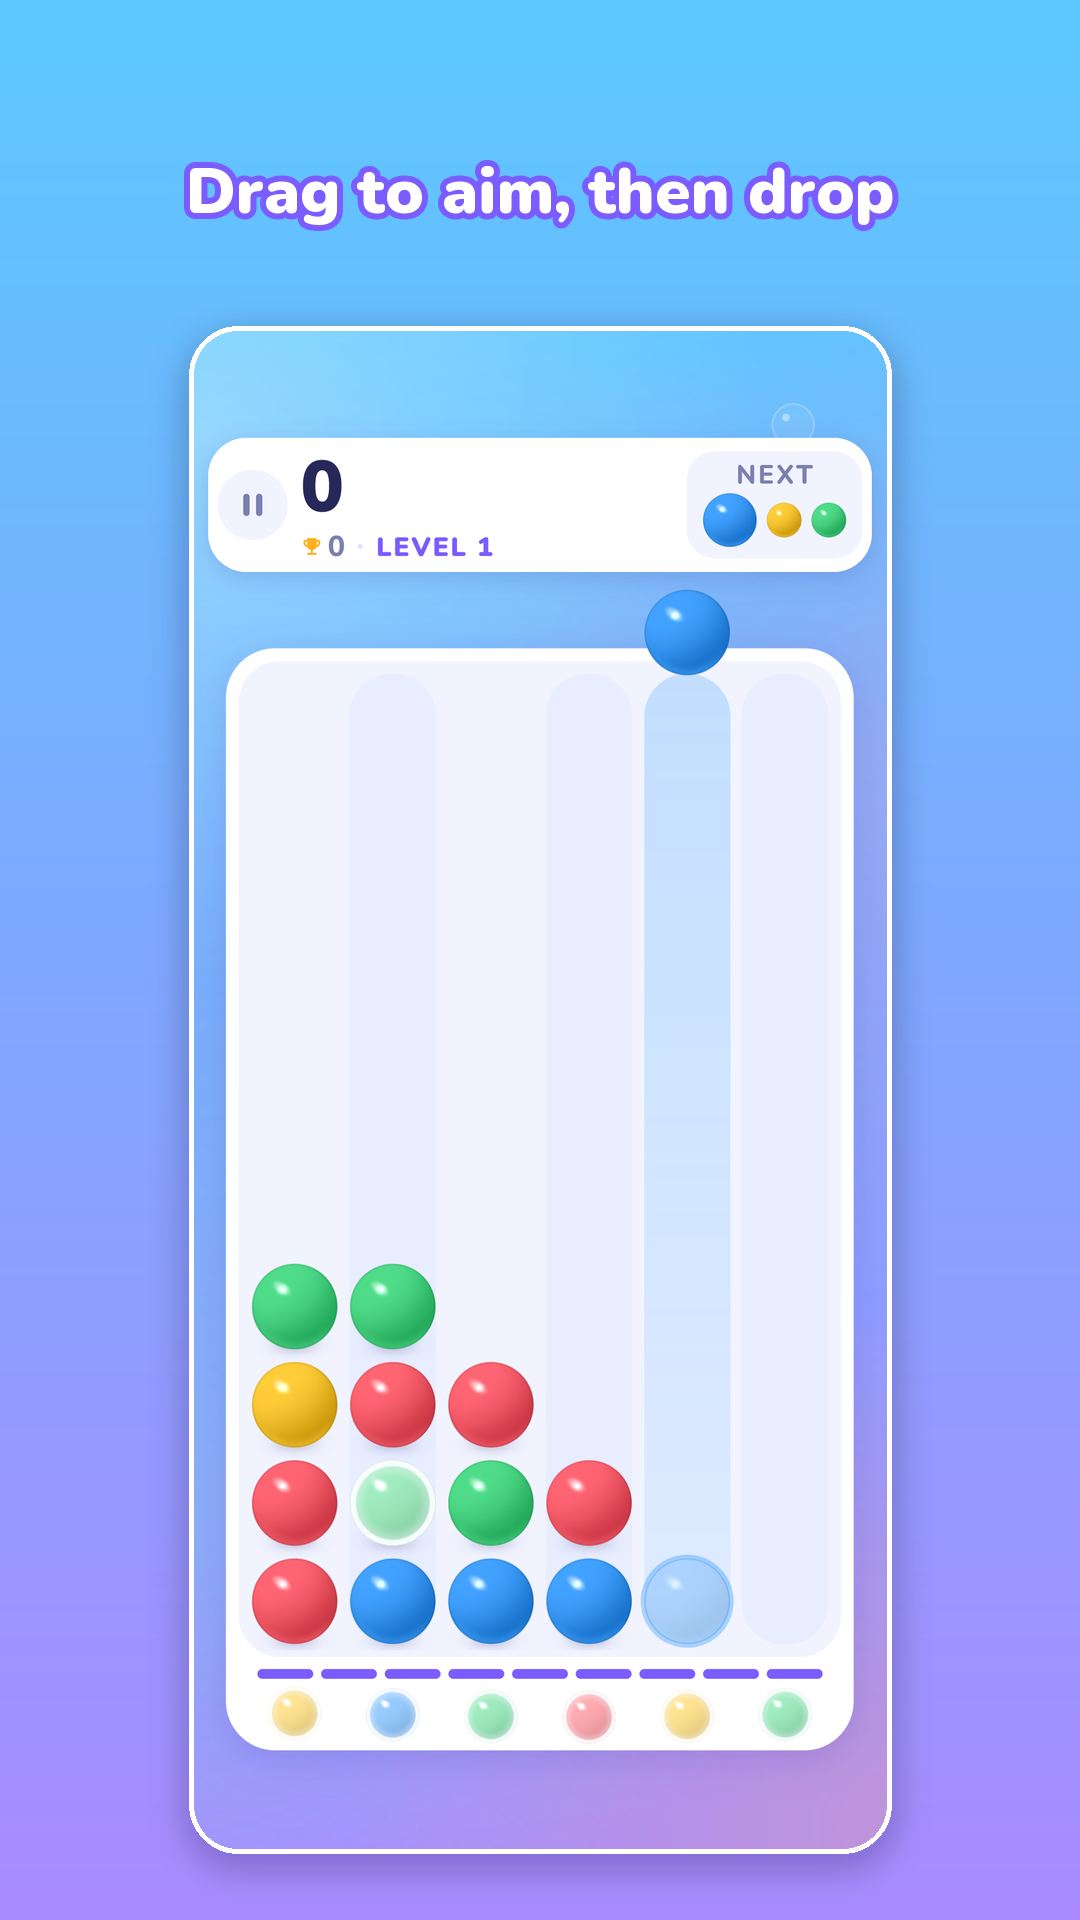
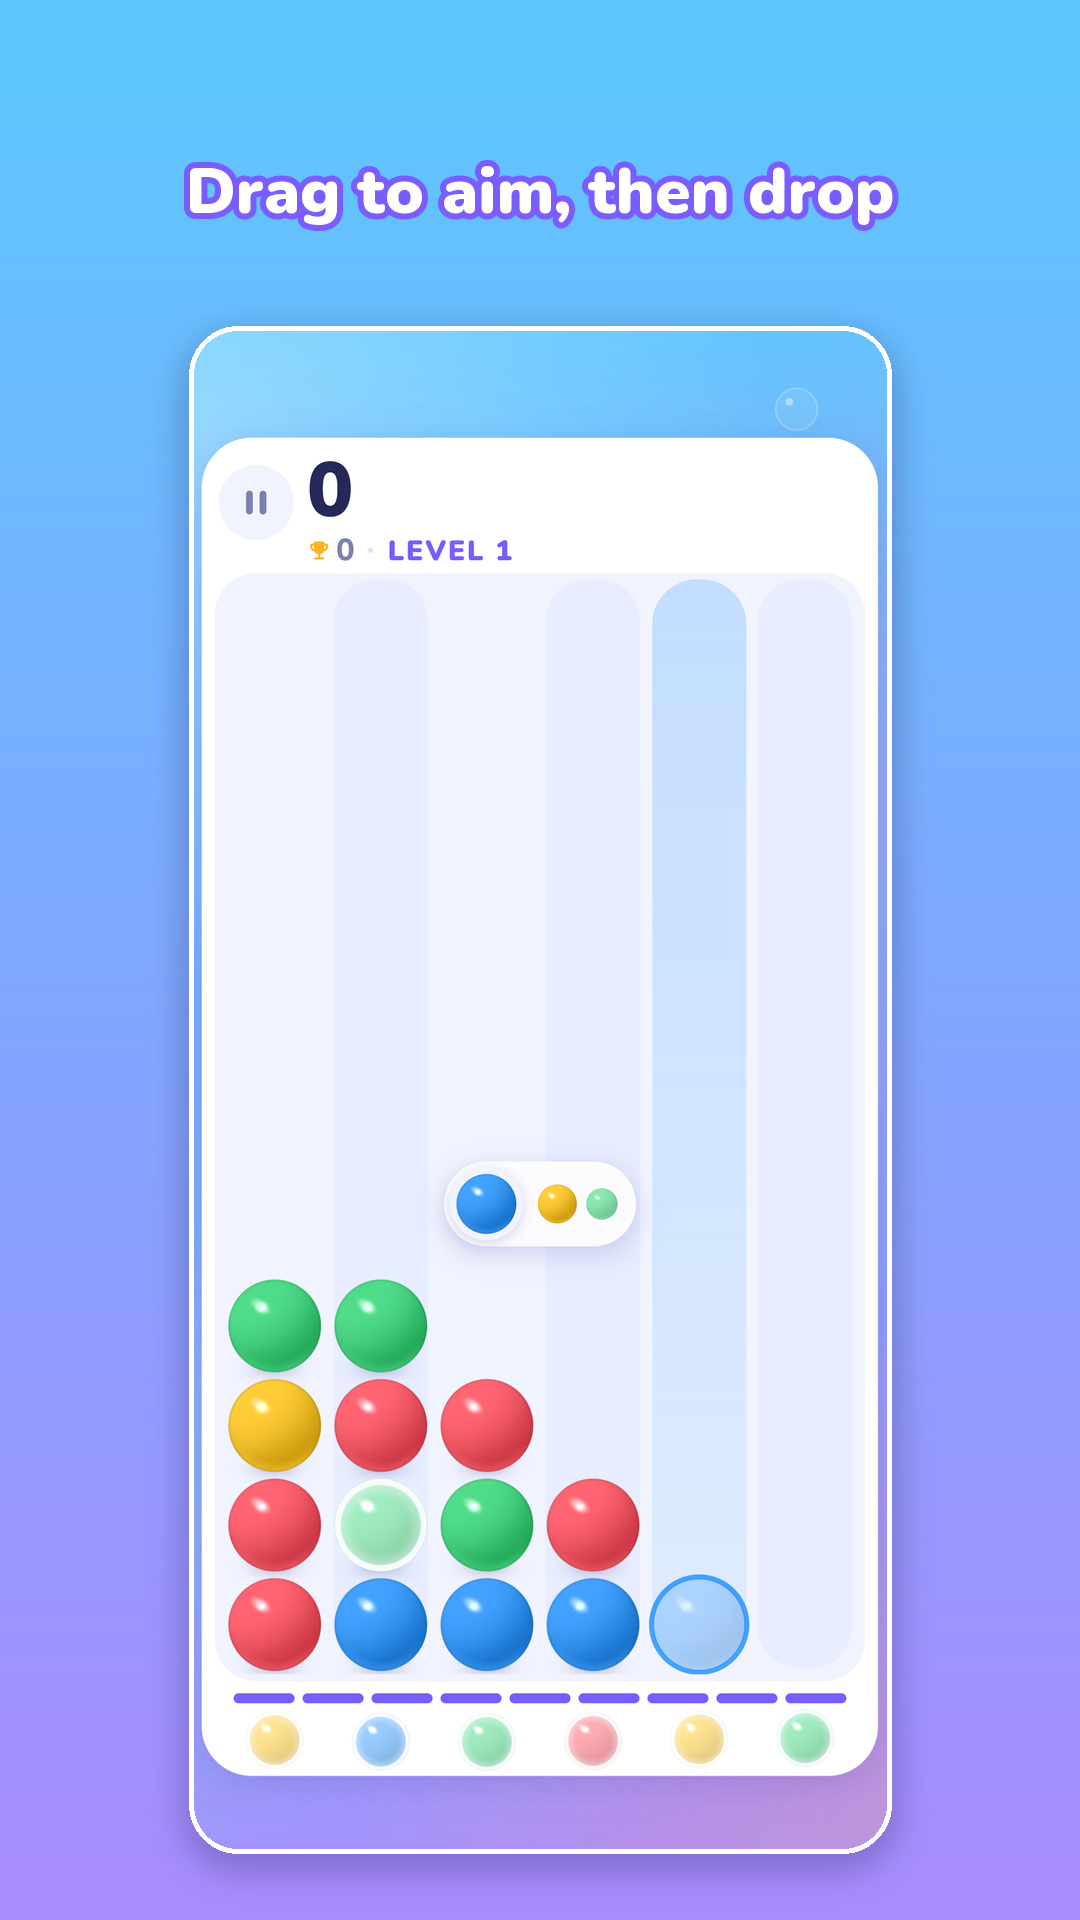
Store material for the new version: screenshots, texts, privacy pages
- New store screenshots and feature graphic from the current layout
  (crop nudged so the tagline isn't cut).
- Ball shapes removed from the listing, support page and privacy policy;
  music added (setting, listing line, App Store content-rights answer for
  the Pixabay tracks).
- Repaired mojibake in art-direction.md and known-bugs.md (an earlier
  PowerShell edit re-saved them through code page 1251).
- Guide: bundle size; known-bugs: 2026-10-26 emulator verification.

Changed region(s): [[0.1833, 0.2188, 0.825, 0.9375]]

diff --git a/docs/index.html b/docs/index.html
@@ -44,9 +44,9 @@
     </ul>
 
     <h2>Settings</h2>
-    <p>Tap the pause button during a round to turn <strong>sound</strong>, <strong>vibration</strong> and
-      <strong>ball shapes</strong> (a symbol on each colour, helpful for colour-blind players) on or off,
-      or to replay the tutorial with <strong>How to play</strong>.</p>
+    <p>Tap the pause button during a round to turn <strong>sound</strong>, <strong>music</strong> and
+      <strong>vibration</strong> on or off. <strong>How to play</strong> (on the home screen and in the pause
+      menu) replays the tutorial.</p>
 
     <h2>Your data</h2>
     <p>Bubblop collects no personal data, has no ads and works offline. Read the

diff --git a/docs/privacy.html b/docs/privacy.html
@@ -38,7 +38,7 @@
     <p>The game saves a few things <strong>only on your device</strong> so it works the way you left it:</p>
     <ul>
       <li>your best score and the number of games played</li>
-      <li>your sound, vibration and ball-shape settings</li>
+      <li>your sound, music and vibration settings</li>
       <li>whether you have completed the tutorial</li>
     </ul>
     <p>The game never sends this information anywhere. Uninstalling the game deletes it. If you use your

diff --git a/tools/make_store_assets.py b/tools/make_store_assets.py
@@ -95,7 +95,7 @@ def main():
 
     # Google Play feature graphic: the home screen's logo, cropped to 1024x500.
     home = Image.open(RAW / 'home.png').convert('RGB')
-    c, ch = int(home.height * 0.385), int(home.width * 500 / 1024)
+    c, ch = int(home.height * 0.365), int(home.width * 500 / 1024)
     home.crop((0, c - ch // 2, home.width, c - ch // 2 + ch)).resize((1024, 500), Image.LANCZOS).save(
         OUT / 'play-feature-graphic-1024x500.png', optimize=True)
 

diff --git a/docs/art-direction.md b/docs/art-direction.md
@@ -20,15 +20,16 @@ fallback in `app/lib/render/orb_material.dart`). Effects: `app/lib/render/effect
 | Use | Colour |
 |---|---|
 | Balls | Cherry `#FF4757`, Sunflower `#FFC312`, Fresh green `#2ED573`, Sky blue `#1E90FF`, Grape `#9B59F6` (the 5th, from level 5) |
-| Sky | `#5CC8FF` в†’ `#7FA8FF` в†’ `#A98BFF` |
+| Sky | `#5CC8FF` → `#7FA8FF` → `#A98BFF` |
 | Cards | White, soft shadow `#3A2D9E` at 33% |
 | Text | Ink `#26285A`, soft ink `#7B80B0`; white on the sky |
 | Accent | Purple `#7B5CFF` (level pill, banner outline) |
-| Button | Orange `#FFA62B` в†’ pink `#FF5C8A` |
+| Button | Orange `#FFA62B` → pink `#FF5C8A` |
 
-The ball colours differ in brightness as well as hue. Colour is the only cue on a ball,
-so the pause menu has a colour-blind option, **Ball shapes** (off by default): a white
-triangle, star, square, plus or ring baked onto each colour.
+The ball colours differ in brightness as well as hue. Colour is the only cue on a ball:
+the **Ball shapes** colour-blind option (2026-10-22) was removed again on 2026-10-23 to keep
+the pause menu simple; `OrbSprites.bake(shapes: true)` still draws the symbols if it
+returns.
 
 ## Pieces
 | Piece | Look |
@@ -42,7 +43,7 @@ triangle, star, square, plus or ring baked onto each colour.
 | Credit | "elishakov" in thin, widely spaced white letters at 28% at the bottom of the home screen: the letters surface one by one from the moment the app opens, linger, then dissolve (again on each return home). Meant to be easy to miss; never over the play area |
 | HUD | One white panel: a quiet pause button (44 px, tinted circle), the score (rolls up, small bump, a gold "+N" chip for each gain) with best and LEVEL under it, and NEXT (held ball large, then two small) in a tinted well |
 | Round over | A white card that bounces in, a big score, a gold "New best!" pill, stats, and a chunky gradient Play again button that presses down |
-| Text | Nunito (SIL OFL 1.1), weights 800вЂ“900, tabular figures for scores |
+| Text | Nunito (SIL OFL 1.1), weights 800–900, tabular figures for scores |
 
 ## Feedback
 | Moment | Effect |
@@ -51,8 +52,8 @@ triangle, star, square, plus or ring baked onto each colour.
 | Land | Squash and a tiny puff of dust |
 | Match (highlight) | Balls swell slightly and lean 12% of the way toward their group's centre (a squeeze) with a soft halo; shells next to them start to crack |
 | Pop | Balloon pop: each ball puffs up and vanishes in a quick disc of light. One or two confetti bits per ball in its colour, a soft ring per group, a few gold sparkles, and a small "+points" tag (the total also lands in the HUD) |
-| Bigger group / later step | Intensity `(1 + 0.22В·(nв€’4)) В· (1 + 0.45В·(stepв€’1))`, capped at 3.4: more and faster confetti, bigger rings and light, more sparkles, a higher pop note and stronger vibration |
-| Chain step 2+ | A gold sparkle trail arcs from the previous burst to this one; a bouncy "Г—step" with a coloured outline; the board's border flashes in the popped colour, stronger each step; from step 3, a small screen shake (at most 5 px). Older labels clear quickly |
+| Bigger group / later step | Intensity `(1 + 0.22·(n−4)) · (1 + 0.45·(step−1))`, capped at 3.4: more and faster confetti, bigger rings and light, more sparkles, a higher pop note and stronger vibration |
+| Chain step 2+ | A gold sparkle trail arcs from the previous burst to this one; a bouncy "×step" with a coloured outline; the board's border flashes in the popped colour, stronger each step; from step 3, a small screen shake (at most 5 px). Older labels clear quickly |
 | Shell crack | Cracks spread over the bubble from the side that was hit; it pops into lavender droplets with a ring in the ball's colour; the freed ball boings out and settles |
 | Danger | A soft red tint pulsing down nearly full columns |
 

diff --git a/docs/known-bugs.md b/docs/known-bugs.md
@@ -19,14 +19,14 @@
 - **Taps sometimes did nothing:** a press held longer than ~0.1 s without moving dropped
   no ball (touch and mouse). On release the gesture arena cancels the unused drag, which
   cleared the aim just before the tap's "up" arrived. A tap now drops where it lifted.
-  Checked across touch/mouse Г— 8 movement distances Г— 5 hold times, and in the real app.
+  Checked across touch/mouse × 8 movement distances × 5 hold times, and in the real app.
 - **Tutorial could stall:** only the first ball was scripted blue, so after a miss the
   "try dropping it here" hint pointed at a column where a random colour might not pop.
   The first three balls are now blue (test/tutorial_test.dart).
 - The landing ring could float above settling balls when tapping mid-chain (it follows
   the rules board, which is a move ahead); it now shows only once the board is still.
-- Colour-blind option: **Ball shapes** in the pause menu puts a white triangle, star,
-  square, plus or ring on each colour (off by default; saved).
+- Colour-blind option: **Ball shapes** in the pause menu put a white triangle, star,
+  square, plus or ring on each colour (removed again on 2026-10-23).
 - Very long scores now shrink to fit the score panel instead of overflowing.
 - Android back during a round closed the app; it now pauses (back again resumes, and
   from a finished round it goes home). Escape does the same on PC and web.
@@ -51,18 +51,25 @@
 
 ## Performance: measured 2026-10-15
 Windows 11, Intel UHD Graphics 770 (integrated; the display is not on the RTX 4060),
-profile build, window 430Г—900 at 150% scaling. 60 s auto-play benchmark
+profile build, window 430×900 at 150% scaling. 60 s auto-play benchmark
 (`--profile --dart-define=POP_BENCH=60`): drops every 0.2 s, ~80 chain steps, up to 193
 active effects.
 
 | Raster (GPU) per frame | avg | p50 | p90 | p99 | frames > 16.7 ms |
 |---|---|---|---|---|---|
 | Dark design, before HUD fix | 13.7 ms | 13.5 | 17.5 | 20.8 | 533 of 3598 |
-| Dark design, after HUD fix | 5.6 ms | 5.6 | 6.9 | 8.6вЂ“9.0 | 1вЂ“2 of ~3620 |
-| Bright design (2 runs) | 2.8 ms | 2.8 | 3.6вЂ“3.7 | 4.5 | 0вЂ“1 of ~3640 |
+| Dark design, after HUD fix | 5.6 ms | 5.6 | 6.9 | 8.6–9.0 | 1–2 of ~3620 |
+| Bright design (2 runs) | 2.8 ms | 2.8 | 3.6–3.7 | 4.5 | 0–1 of ~3640 |
 | **+ audio, home, tutorial (2026-10-16, 1 run)** | **2.55 ms** | 2.5 | 3.2 | 3.9 | 1 of 3626 |
 
 UI thread (build) for the bright design: 0.9 ms average, 2.0 ms p99, 0 frames over budget.
+
+## Verified 2026-10-26 (release candidate 1.0.0+1, new layout and music)
+- Android emulator (API 37), release build: home, tutorial, held press → ×2 chain, Back →
+  pause (Sound / Music / Vibration), background and return stays paused, force-stop and
+  relaunch skips the tutorial (saved). No game errors in logcat; all three songs bundled.
+- App bundle (71 MB): signed with the upload key, targetSdk 36, 16 KB-aligned native code,
+  no runtime permissions.
 
 ## Verified 2026-10-22 (release candidate 1.0.0+1)
 - Android emulator (API 37, 1080×2400), release build: launch, first-time tutorial, a miss
@@ -75,5 +82,5 @@ UI thread (build) for the bright design: 0.9 ms average, 2.0 ms p99, 0 frames ov
 ## Verified 2026-10-15 (bright design)
 - Windows: balls, shells, board, dock, HUD, aiming, pops, a 3-step chain with a cracked
   shell (chain demo), the round-over card, and restart. No errors in the run log.
-- Android emulator (API 37, 1080Г—2400, debug build): the shader renders, layout, the chain
+- Android emulator (API 37, 1080×2400, debug build): the shader renders, layout, the chain
   demo plays, no Flutter errors in the log.

diff --git a/docs/MOBILE_RELEASE_GUIDE.md b/docs/MOBILE_RELEASE_GUIDE.md
@@ -31,9 +31,9 @@ Written for a first release. Work through it with the checklist in
 | iOS: `ITSAppUsesNonExemptEncryption = NO` (`Info.plist`) | The game uses no encryption, so App Store Connect stops asking the export-compliance question on every upload. |
 | `codemagic.yaml`: new **iOS release (TestFlight)** workflow | Builds, signs and uploads the iPhone version from the cloud, so you don't need a Mac. |
 | Android upload key and `key.properties` | Google Play only accepts signed bundles. |
-| Privacy policy update (`docs\store\privacy-policy.md`, `docs\privacy.html`) | Lists the ball-shape setting, mentions phone backups, and states that there is no third-party ad, analytics or tracking code (verified: the only libraries are the game engine, sound and on-device storage). |
+| Privacy policy update (`docs\store\privacy-policy.md`, `docs\privacy.html`) | Lists the saved settings (sound, music, vibration), mentions phone backups, and states that there is no third-party ad, analytics or tracking code (verified: the only libraries are the game engine, sound and on-device storage). The music is three Pixabay tracks, used under the Pixabay Content License. |
 | Store screenshots tool (`tools\make_store_assets.py`) and a 3× option for the screenshot driver | So the store images can be remade after updates. |
-| Game fixes earlier today | Taps that sometimes did nothing, a tutorial that could stall, Android Back button, colour-blind ball shapes; see `docs\known-bugs.md`. |
+| Game fixes earlier today | Taps that sometimes did nothing, a tutorial that could stall, Android Back button; see `docs\known-bugs.md`. Later: new layout, background music (Pixabay), softer sounds. |
 
 ## 3. Build commands
 
@@ -62,7 +62,7 @@ downloaded from the build page.
 
 | File | Path |
 |---|---|
-| Android bundle for Google Play | `app\build\app\outputs\bundle\release\app-release.aab` (54 MB; phones download ~20 MB) |
+| Android bundle for Google Play | `app\build\app\outputs\bundle\release\app-release.aab` (71 MB including the music; a single-phone install is about 40 MB) |
 | Android test APK | `app\build\app\outputs\flutter-apk\app-release.apk` |
 | Android upload key | `C:\Users\User\pop-upload-key.jks` |
 | Key password | `app\android\key.properties` (`storePassword` line) |

diff --git a/docs/store/listing.md b/docs/store/listing.md
@@ -51,8 +51,8 @@ bubble to break it open and free the ball inside, which can set off an even bigg
 ★ Learn in seconds, with a short guided first round
 ★ One-thumb play: tap a column, or drag to aim and release to drop
 ★ Big, juicy chain reactions with sound and vibration
+★ Relaxing background music (turn it off any time)
 ★ Beat your best score: every round takes just a few minutes
-★ Colour-blind friendly: optional shapes on every ball
 ★ Plays offline · No account needed · No ads · No data collected
 
 ### Graphics (in docs/store/assets/)
@@ -116,6 +116,6 @@ played, settings and "tutorial done" on the device only.
 | App Privacy → Data collection | **No, we do not collect data from this app** → shows "Data Not Collected" |
 | Age rating | Answer **None** / **No** to every item (no violence, no gambling, no user-generated content, no messaging, no web access, no ads). Expected result: **4+** |
 | Export compliance | Already answered in the app (`ITSAppUsesNonExemptEncryption = NO`), so App Store Connect should not ask |
-| Content rights | **No**, the app does not contain third-party content needing rights (the font, Nunito, is under the SIL Open Font License, included in the app) |
+| Content rights | **Yes**, the app contains third-party content, and **yes**, you have the rights: the background music is three Pixabay tracks under the Pixabay Content License (free for commercial use in apps, no credit required; credited in README.md), and the font Nunito is under the SIL Open Font License |
 | Made for Kids | **No** (leave unticked; it is a general-audience game) |
 | Sign-in required for review | **No** |

diff --git a/docs/store/privacy-policy.md b/docs/store/privacy-policy.md
@@ -12,7 +12,7 @@ has no accounts, no analytics, no advertising and no tracking.
 ## What stays on your device
 The game saves a few things **only on your device** so it works the way you left it:
 - your best score and the number of games played
-- your sound, vibration and ball-shape settings
+- your sound, music and vibration settings
 - whether you have completed the tutorial
 
 The game never sends this information anywhere. Uninstalling the game deletes it. If you
